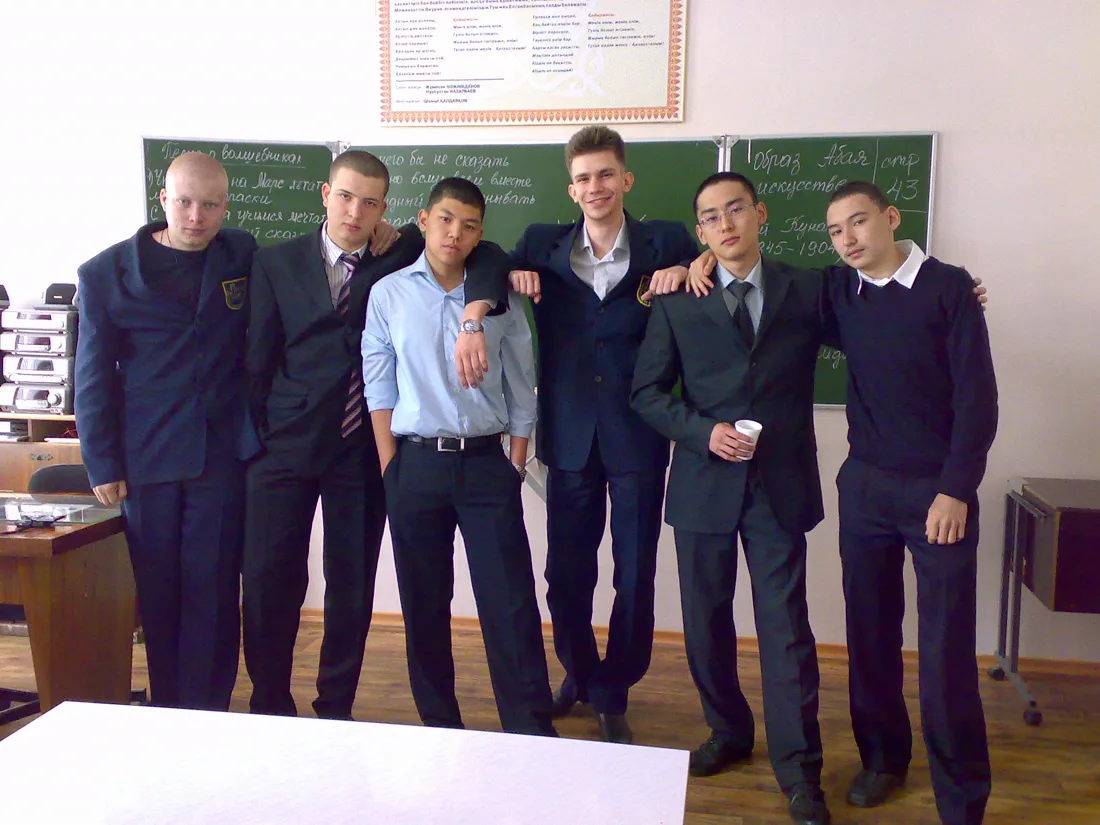
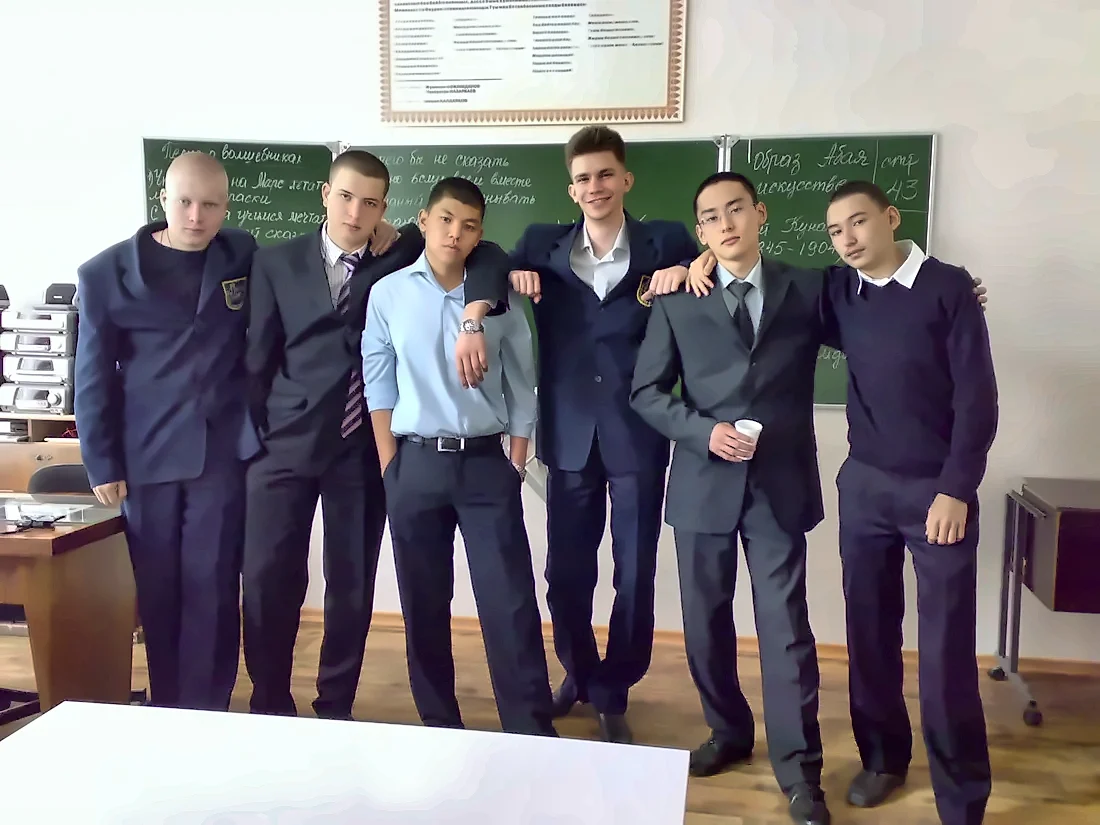
Education: restore trimmed MSU story, correct lyceum city, enhance photos, add card previews
Restored the unhappy-love-and-a-friend passage that got cut from the
MSU summary, sourced verbatim from Alex's own draft notes. Corrected
the lyceum entry: it was Almaty (not Astana) and 2008 is the
graduation year. Ran all five personal photos (MSU + lyceum) through
a denoise/white-balance/contrast pass to fix the blue night-shot color
cast and grain. Added a wall-card preview photo for MSU (Wikimedia
Commons, CC BY-SA 4.0, Dmitry A. Mottl / cropped by King of Hearts) -
no equivalent photo found yet for the lyceum building.

diff --git a/apps/site/data.js b/apps/site/data.js
@@ -118,11 +118,11 @@ const DATA = {
   ],
   education: [
     {
-      id: "msu", glyph: "🎓",
+      id: "msu", glyph: "🎓", photo: "assets/education/msu/main-building-exterior.webp",
       title: { ru: "МГУ имени М.В. Ломоносова", en: "Lomonosov Moscow State University" },
       role: { ru: "Специалитет, компьютерные науки", en: "Specialist degree (5-year, equiv. Bachelor's + Master's), Computer Science" },
       period: { ru: "2008–2013", en: "2008–2013" },
-      summary: { ru: "Официально поступил на бюджет — этим до сих пор горжусь. Несколько лет прожил в общаге. В казахстанский филиал приезжали читать лекции преподаватели из самого МГУ: от математических блоков вешался, но всё сдавал, а на программировании отдыхал душой. Годы в Москве были совсем другими — свой ритм, кафедра, специализация. Ну и, конечно, венец всего — диплом о предсказании производительности хорошо распараллеленных вычислений на кластере из видеокарт: мозги были загружены как никогда, так что первые годы работы после казались отдыхом.", en: "Got in on a state-funded spot — still proud of that. Lived in the dorm for a few years. Actual MSU professors from Moscow would come teach at the Kazakhstan branch: the math blocks nearly broke me (though I passed everything), while programming felt like a break. The years in Moscow itself were a different rhythm entirely — different department, different specialization. And the capstone of it all: a thesis on predicting the performance of well-parallelized computation on a GPU cluster — my brain was more loaded than it's ever been, so the first years of actual work felt like a vacation by comparison." },
+      summary: { ru: "Официально поступил на бюджет — этим до сих пор горжусь. Несколько лет прожил в общаге. В казахстанский филиал приезжали читать лекции преподаватели из самого МГУ: от математических блоков вешался, но всё сдавал, а на программировании отдыхал душой. Годы в Москве были совсем другими — свой ритм, кафедра, специализация. Студенческая жизнь задела меня лишь по касательной, но было ощущение единения — пусть и в небольшом коллективе. А ещё была крышесносная несчастная любовь и друг, который стал почти как брат — привет и тёплые чувства всем, кто себя узнает. Ну и, конечно, венец всего — диплом о предсказании производительности хорошо распараллеленных вычислений на кластере из видеокарт: мозги были загружены как никогда, так что первые годы работы после казались отдыхом.", en: "Got in on a state-funded spot — still proud of that. Lived in the dorm for a few years. Actual MSU professors from Moscow would come teach at the Kazakhstan branch: the math blocks nearly broke me (though I passed everything), while programming felt like a break. The years in Moscow itself were a different rhythm entirely — different department, different specialization. Student life only brushed me in passing, but there was a sense of togetherness, even in a small crew. There was also a head-spinning, ill-fated love, and a friend who became almost like a brother — hi and warm feelings to anyone who recognizes themselves here. And the capstone of it all: a thesis on predicting the performance of well-parallelized computation on a GPU cluster — my brain was more loaded than it's ever been, so the first years of actual work felt like a vacation by comparison." },
       highlights: {
         ru: ["Поступил на бюджетное отделение", "В казахстанском филиале часть курсов читали преподаватели, приезжавшие из самого МГУ", "Дипломная работа — предсказание производительности хорошо распараллеленных вычислений на GPU-кластере"],
         en: ["Got a state-funded (budget) place", "Some courses at the Kazakhstan branch were taught by professors visiting from MSU itself", "Thesis: predicting the performance of well-parallelized computation on a GPU cluster"],
@@ -133,7 +133,7 @@ const DATA = {
       id: "lyceum-165", glyph: "🎓",
       title: { ru: "Технический лицей №165", en: "Technical Lyceum No. 165" },
       role: { ru: "Профиль: программирование, радиотехника, автодело", en: "Track: programming, radio engineering, driver's ed" },
-      period: { ru: "Астана", en: "Astana" },
+      period: { ru: "2008 · Алматы", en: "2008 · Almaty" },
       summary: { ru: "Едва ли не самое сложное учебное заведение в моей жизни. По 11 уроков в день регулярно, плюс дополнительные занятия — программирование, радиотехника, автодело. Все были порядком задолбаны. При этом успевали участвовать в олимпиадах и международных конкурсах — и по итогу поступили в лучшие доступные вузы.", en: "Arguably the toughest school I've ever been through. 11 lessons a day, regularly, plus extra classes on top — programming, radio engineering, driver's ed. Everyone was thoroughly exhausted. And still found time for olympiads and international competitions — ended up getting into the best universities available to us." },
       highlights: {
         ru: ["Профильные предметы сверх стандартной программы: программирование, радиотехника, автодело", "Участвовал в олимпиадах и международных конкурсах"],
